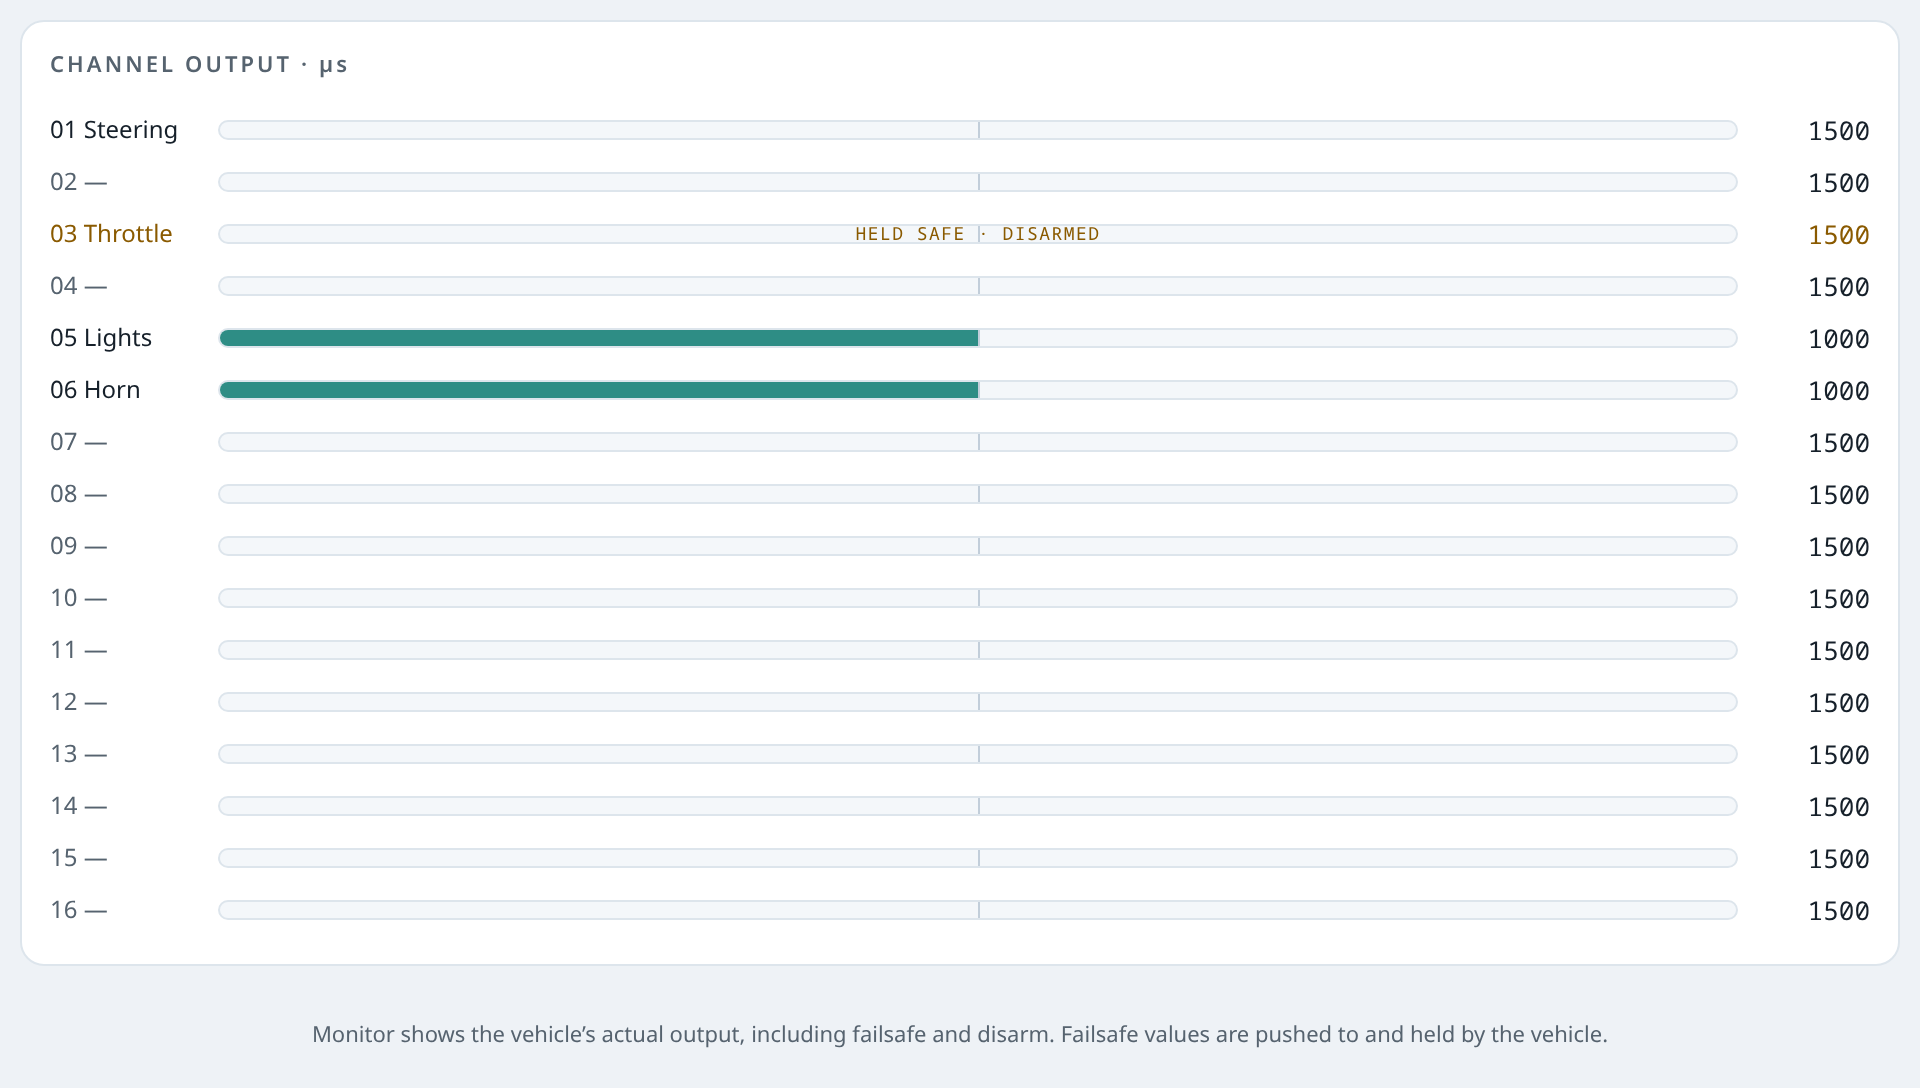
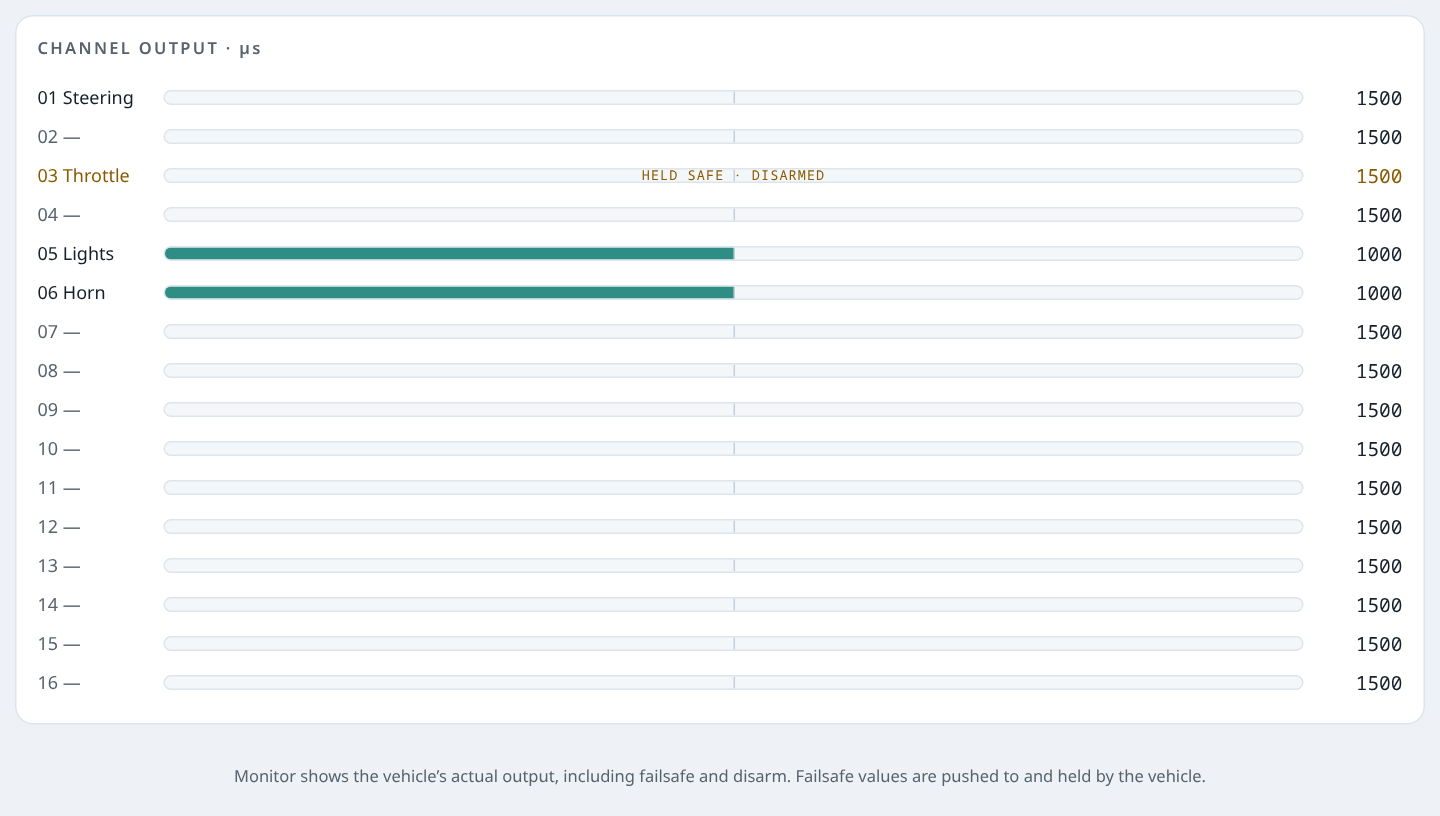
screenshots: the default OSD, and a third of the weight
The hero shot had the link numbers forced on to match its caption. It now shows
what actually ships — the single link health score — and the caption says where
the numbers behind it come from instead.

And the five files were 1.2 MB for pixels nobody sees: GitHub lays a README
image out at ~900px, so 2x render scale was three times over. 1.5x for the
desktop shots, 2x for the phone (780x1688 instead of 1170x2532), a 256-colour
palette on the three flat-UI PNGs and JPEG for the one that carries video —
1.2 MB → 436 KB with nothing visibly different.

The screenshot script now takes a random debug port and kills chrome on the way
out: a fixed port silently reused a chrome left behind by a failed run, with ITS
profile, which is exactly how the hero shot kept showing a setting the script no
longer set.

diff --git a/README.de.md b/README.de.md
@@ -11,16 +11,17 @@ Alles ist **im Simulator lauffähig — ganz ohne Hardware**. Für den echten Au
 auf dem Pi (Teileliste, Verkabelung, Schritt für Schritt WLAN → LTE) siehe
 [`docs/HARDWARE.de.md`](docs/HARDWARE.de.md).
 
-![Bodenstation im Fahrbetrieb: FPV-Video mit vollem OSD — GPS-Fix und Home-Kompass mit Distanz, Odometer und Speed oben links, Akku-Balken oben rechts, Link-Signal und Stats unten rechts](docs/screenshots/Overview_OSD.png?v=4)
+![Bodenstation im Fahrbetrieb: FPV-Video mit vollem OSD — GPS-Fix und Home-Kompass mit Distanz, Odometer und Speed oben links, Akku-Balken oben rechts, Spannung/Strom/mAh unten rechts, Link-Gesundheitszahl oben Mitte](docs/screenshots/Overview_OSD.png?v=5)
 
-*Bodenstation im Fahrbetrieb: latenzarmes FPV mit vollem OSD — GPS-Fix + **Home-Kompass,
-Distanz, Odometer und Speed** (oben links), Akku-Balken (oben rechts) sowie das
-**Link-Signal** + Steuer-/Video-Latenz, Bitrate, FPS und Loss (unten rechts; normalerweise
-steht dort nur eine Gesundheitszahl, die Werte kommen von selbst, sobald der Link nicht
-mehr gut ist). Ein **Setup ↗**-Shortcut öffnet die Setup-Seite des Fahrzeugs. Das
-**Aussehen wird am Fahrzeug gewählt** (Setup › Design) und an die Boden-App geschoben —
-hier hell, für Nachtflüge dunkel; das OSD bleibt in beiden hell auf dunkel, weil es auf
-dem Bild liegt.*
+*Bodenstation im Fahrbetrieb, genau wie ausgeliefert: latenzarmes FPV mit vollem OSD —
+GPS-Fix + **Home-Kompass, Distanz, Odometer und Speed** (oben links), Akku-Balken (oben
+rechts), Spannung/Strom/mAh (unten rechts) und die **Link-Gesundheit als eine Zahl**
+(oben Mitte). Die Werte dahinter — Steuer- und Video-Latenz, Bitrate, FPS, Loss —
+erscheinen von selbst, sobald der Link nicht mehr gut ist, oder dauerhaft über FPV › ⚙.
+Ein **Setup ↗**-Shortcut öffnet die Setup-Seite des Fahrzeugs. Das **Aussehen wird am
+Fahrzeug gewählt** (Setup › Design) und an die Boden-App geschoben — hell als Standard,
+für Nachtflüge dunkel; das OSD bleibt in beiden hell auf dunkel, weil es auf dem Bild
+liegt.*
 
 ---
 
@@ -73,7 +74,7 @@ Reihe und die Größe, die damit möglich ist; Modus 4 verteilt beides auf zwei.
 <details>
 <summary><b>Mobile Ansicht — hier klicken</b></summary>
 
-![YonderRC am Handy: FPV mit kompaktem OSD, umgebrochene Tool-Buttons, Arm-Button und Touch-Joysticks](docs/screenshots/Mobile_FPV.jpeg?v=2)
+![YonderRC am Handy: FPV mit kompaktem OSD, umgebrochene Tool-Buttons, Arm-Button und Touch-Joysticks](docs/screenshots/Mobile_FPV.jpeg?v=5)
 
 *Dieselbe App in Handy-Breite (390 px): FPV mit kompaktem OSD (GPS, Home-Kompass,
 Odometer und Speed links, Akku-Balken rechts, Telemetrie in einer Zeile), die
@@ -111,7 +112,7 @@ FPV-Buttons in einer zweiten Reihe und darunter der Arm-Button mit dem Touch-Sti
   Steuer-Link und die Setup-API es — erster Verbindungsaufbau bleibt schnell, bei
   Bedarf abschließbar.
 
-![Kanal-Monitor: tatsächliche µs-Ausgabe je Kanal, Throttle „HELD SAFE · DISARMED“](docs/screenshots/ChannelOutput_Monitor.png?v=4)
+![Kanal-Monitor: tatsächliche µs-Ausgabe je Kanal, Throttle „HELD SAFE · DISARMED“](docs/screenshots/ChannelOutput_Monitor.png?v=5)
 
 *Kanal-Monitor: zeigt die **echte** Fahrzeug-Ausgabe in µs inklusive Failsafe und
 Disarm — der Throttle-Kanal wird sichtbar sicher gehalten, solange disarmed.*
@@ -229,7 +230,7 @@ Disarm — der Throttle-Kanal wird sichtbar sicher gehalten, solange disarmed.*
   Das **API-Secret** lässt sich per Klick erzeugen. Die Boden-App hat einen **„Setup ↗"-Shortcut**, der sie für das
   verbundene Fahrzeug öffnet (im LAN, über den AP des Pi oder eine VPN-Adresse).
 
-  ![Setup-Seite des Fahrzeugs, Reiter Overview: Reiterleiste oben, darunter der System-Status — Modus, LTE-Modem und Betreiber, Fernzugriff, WiFi sowie je eine Zeile für Sensorik, GPS und Kameras — danach Hardware-Test, Software-Update und die System-Buttons](docs/screenshots/VehicleConfig_Setup.png?v=4)
+  ![Setup-Seite des Fahrzeugs, Reiter Overview: Reiterleiste oben, darunter der System-Status — Modus, LTE-Modem und Betreiber, Fernzugriff, WiFi sowie je eine Zeile für Sensorik, GPS und Kameras — danach Hardware-Test, Software-Update und die System-Buttons](docs/screenshots/VehicleConfig_Setup.png?v=5)
 
   *Setup-Seite direkt vom Fahrzeug, in Reiter geteilt — **Overview · Network · Remote
   access · Sensors & outputs · Camera · GPS · Design**, jeder davon eine URL

diff --git a/README.md b/README.md
@@ -11,15 +11,16 @@ Everything runs **in a simulator — with no hardware at all**. For the real bui
 the Pi (parts list, wiring, step by step from Wi-Fi → LTE) see
 [`docs/HARDWARE.md`](docs/HARDWARE.md).
 
-![Ground station while driving: FPV video with a full OSD — GPS fix and home compass with distance, odometer and speed top left, battery bar top right, link signal and stats bottom right](docs/screenshots/Overview_OSD.png?v=4)
+![Ground station while driving: FPV video with a full OSD — GPS fix and home compass with distance, odometer and speed top left, battery bar top right, voltage/current/mAh bottom right, link health score top centre](docs/screenshots/Overview_OSD.png?v=5)
 
-*Ground station while driving: low-latency FPV with a full OSD — GPS fix + **home
-compass, distance, odometer and speed** (top left), battery bar (top right), and the
-**link signal** + control/video latency, bitrate, FPS and loss (bottom right; normally a
-single health score, with the numbers appearing by themselves the moment the link stops
-being good). A **Setup ↗** shortcut opens the vehicle's setup page. The **look is set on
-the vehicle** (Setup › Design) and pushed to the ground app — light here, dark for night
-flying; the OSD stays light-on-dark either way, because it is drawn on the picture.*
+*Ground station while driving, exactly as it ships: low-latency FPV with a full OSD —
+GPS fix + **home compass, distance, odometer and speed** (top left), battery bar (top
+right), voltage/current/mAh (bottom right), and **link health as one score** (top
+centre). The numbers behind that score — control and video latency, bitrate, FPS, loss —
+appear by themselves the moment the link stops being good, or permanently under
+FPV › ⚙. A **Setup ↗** shortcut opens the vehicle's setup page. The **look is set on the
+vehicle** (Setup › Design) and pushed to the ground app — light by default, dark for
+night flying; the OSD stays light-on-dark either way, because it is drawn on the picture.*
 
 ---
 
@@ -67,7 +68,7 @@ that comes with it; mode 4 splits them across two.*
 <details>
 <summary><b>Mobile view — click to expand</b></summary>
 
-![YonderRC on a phone: FPV with the compact OSD, wrapped tool buttons, arm button and touch joysticks](docs/screenshots/Mobile_FPV.jpeg?v=2)
+![YonderRC on a phone: FPV with the compact OSD, wrapped tool buttons, arm button and touch joysticks](docs/screenshots/Mobile_FPV.jpeg?v=5)
 
 *The same app at phone size (390 px): FPV with the compact OSD (GPS, home compass,
 odometer and speed left, battery bar right, telemetry in one line), the FPV tools
@@ -103,7 +104,7 @@ wrapped onto a second row, and below it the arm button with the touch stick.*
 - **Optional shared secret** (off by default): when set, the control link and the
   setup API require it — quick to connect the first time, lockable when you want it.
 
-![Channel monitor: the actual µs output per channel, throttle "HELD SAFE · DISARMED"](docs/screenshots/ChannelOutput_Monitor.png?v=4)
+![Channel monitor: the actual µs output per channel, throttle "HELD SAFE · DISARMED"](docs/screenshots/ChannelOutput_Monitor.png?v=5)
 
 *Channel monitor: shows the **real** vehicle output in µs including failsafe and
 disarm — the throttle channel is visibly held safe while disarmed.*
@@ -215,7 +216,7 @@ disarm — the throttle channel is visibly held safe while disarmed.*
   The **API secret** can be generated with one click. The ground app has a **"Setup ↗" shortcut** that opens it for the connected
   vehicle (works over LAN, the Pi's AP, or a VPN address).
 
-  ![Vehicle setup page, Overview tab: tabs across the top, then system status — mode, LTE modem and operator, remote access, Wi-Fi, and one line each for sensors, GPS and cameras — followed by the hardware test, the software update and the system buttons](docs/screenshots/VehicleConfig_Setup.png?v=4)
+  ![Vehicle setup page, Overview tab: tabs across the top, then system status — mode, LTE modem and operator, remote access, Wi-Fi, and one line each for sensors, GPS and cameras — followed by the hardware test, the software update and the system buttons](docs/screenshots/VehicleConfig_Setup.png?v=5)
 
   *Setup page served by the vehicle, split into tabs — **Overview · Network · Remote
   access · Sensors & outputs · Camera · GPS · Design**, each one a URL (`…/setup#gps`).
